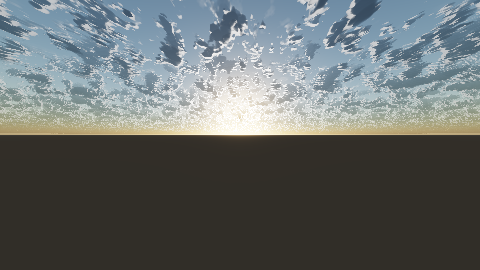
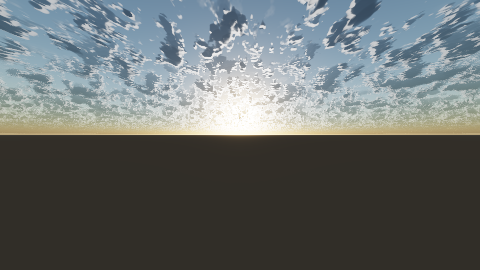
Proof stills supersample the cloud march (adaptive SSAA); dot hunt traces speckle to un-lodded base-fbm octaves
Single-ray stills alias sub-pixel sunlit wisps into white dots production melts by
temporal accumulation (256-frame bake), so the kernel proof now averages sub-rays
(2x2 base, adaptively filled to 4x4 where the base set spreads past 0.35). Only the
cloud march supersamples; the background stays single-ray, sub-rays share the
centre ray's ground distance (exact: downward rays miss the above-eye slab), and
SCAN still prints aliased sub-ray 0 for hunts. Row-64 +2h steps>80 fall 15 -> 5.

The hunt also ruled IN the remaining floor: the twin's tap-3 flip is a red herring
(both sides land multi-scatter-dark), and the dots that survive 16 sub-pixel rays
are sub-STEP lottery, not sub-pixel aliasing — the base fbm marches its 18-37 m
octaves at full weight under Lod 1.0 (142 m steps), which no ray count can resolve.
P2.4e's along-sun shadow prefilter is reverted (proven useless against transverse
flips, doubled shadow cost). Next: P2.4f fades the fine base octaves with
DensityLod in all three density paths (= the infinite-ray mean, exact).

diff --git a/Scratchpad/SkyCloudKernelProof.cpp b/Scratchpad/SkyCloudKernelProof.cpp
@@ -721,6 +721,8 @@ int main()
     //    per-pixel frame is the lab's (atmosphere + aureole + ground + colour); only the cloud march swaps.
     static unsigned char TwinRgb[(size_t)kW*kH*3u], RasterRgb[(size_t)kW*kH*3u];
     int Iso = 0; // Isolation switch for the SKY_ISO frames below: 1 = atmosphere only, 2 = flat cloud ambient.
+    // Scan dump for grain hunts (SKY_SCAN=<row>): raw pre-cloud/transmittance/post floats along one row.
+    int ScanRow = std::getenv("SKY_SCAN") ? std::atoi(std::getenv("SKY_SCAN")) : -1;
     auto Render = [&](const SkyConstantRecord& K, unsigned char* Rgb, bool Twin) {
         // The raster branch reads the PACKED wall clock, like everything else it shares with the twin.
         float CloudTime = K.CloudClock[2];
@@ -764,24 +766,94 @@ int main()
                     }
                 }
             }
-            if (Twin)
+            float PreCloud[3] = { Out[0], Out[1], Out[2] };
+            // SSAA: production converges sub-pixel sunlit wisps by temporal accumulation (256-frame bake);
+            //    one ray per pixel aliases grazing wisps into white dots the accumulation melts on the GPU,
+            //    so the still proof averages sub-rays instead (2x2 base, adaptively filled to 4x4 where the
+            //    base set spreads — the wisp's weight drops to one ray in sixteen). The background stays
+            //    single-ray (it is smooth); only the cloud march supersamples. Sub-rays share the centre
+            //    ray's ground distance: downward rays miss the above-eye slab exactly, so the shortcut is
+            //    exact here. SCAN prints sub-ray 0 (the aliased ray) so hunts still see the raw march.
+            auto ShootSub = [&](float Offx, float Offy, float SubOut[3], bool Scan) {
+                const float SSx = (2.0f * ((Px + 0.5f + Offx) / (float)kW) - 1.0f) * TanHalf * Aspect;
+                const float SSy = (1.0f - 2.0f * ((Py + 0.5f + Offy) / (float)kH)) * TanHalf;
+                float SDir[3] = { F[0] + R[0]*SSx + U[0]*SSy, F[1] + R[1]*SSx + U[1]*SSy, F[2] + R[2]*SSx + U[2]*SSy };
+                const float SDl = std::sqrt(SDir[0]*SDir[0] + SDir[1]*SDir[1] + SDir[2]*SDir[2]);
+                SDir[0] /= SDl; SDir[1] /= SDl; SDir[2] /= SDl;
+                const float SubMax = S.HitGround ? CloudMaxDist : 1e30f;
+                SubOut[0] = PreCloud[0]; SubOut[1] = PreCloud[1]; SubOut[2] = PreCloud[2];
+                if (Twin)
+                {
+                    // The twin reads the record exactly as the kernel does — packed sun, packed clock, packed
+                    //    budgets — so the pack itself is under test alongside the transcription.
+                    float SunRad[3] = { K.SunRadiance[0]*DayF, K.SunRadiance[1]*DayF, K.SunRadiance[2]*DayF };
+                    float Maximum = SubMax > kTwinMaxDistance ? kTwinMaxDistance : SubMax;
+                    float Scatter[3] = { 0.0f, 0.0f, 0.0f }; float T = 1.0f;
+                    float Flat[3] = { 0.7f, 0.8f, 1.0f };
+                    if (Iso != 1)
+                        TwinCloudAlong(K, Eye, SDir, Maximum, K.SunDirection, SunRad, Iso == 2 ? Flat : SubOut, Scatter, T);
+                    for (int C = 0; C < 3; ++C) SubOut[C] = SubOut[C]*T + Scatter[C];
+                    if (Scan && ScanRow >= 0 && Py == (uint32_t)ScanRow)
+                    {
+                        float ScanNear = 0.0f, ScanFar = 0.0f;
+                        uint32_t ScanCount = 0u; float ScanStep = 0.0f;
+                        if (TwinSlabInterval(K, Eye, SDir, Maximum, ScanNear, ScanFar))
+                        {
+                            float ScanSpan = ScanFar - ScanNear;
+                            uint32_t ScanBudget = K.CloudControl[0] ? K.CloudControl[0] : 1u;
+                            ScanCount = (uint32_t)std::fmax(std::ceil(ScanSpan / (4000.0f / float(ScanBudget))), 1.0f);
+                            uint32_t ScanCap = ScanBudget * 4u > 4u ? ScanBudget * 4u : 4u;
+                            if (ScanCount > ScanCap) ScanCount = ScanCap;
+                            ScanStep = ScanSpan / float(ScanCount);
+                        }
+                        std::printf("SCAN %3u pre=%.4f,%.4f,%.4f T=%.4f out=%.4f,%.4f,%.4f n=%.0f cnt=%u st=%.0f\n",
+                                    Px, PreCloud[0], PreCloud[1], PreCloud[2], T, SubOut[0], SubOut[1], SubOut[2],
+                                    ScanNear, ScanCount, ScanStep);
+                    }
+                }
+                else
+                {
+                    const VolumetricSample V = VolumetricMedia::March(Cloud, Sky.LocalCloud, Sky.LocalFog, Wind, VB,
+                        Eye, SDir, SubMax, Light.Direction, CloudSunRad, SubOut, CloudTime);
+                    for (int C = 0; C < 3; ++C) SubOut[C] = SubOut[C] * V.Transmittance + V.Scatter[C];
+                    if (Scan && ScanRow >= 0 && Py == (uint32_t)ScanRow)
+                        std::printf("SCANR %3u pre=%.4f,%.4f,%.4f T=%.4f out=%.4f,%.4f,%.4f\n",
+                                    Px, PreCloud[0], PreCloud[1], PreCloud[2],
+                                    V.Transmittance, SubOut[0], SubOut[1], SubOut[2]);
+                }
+            };
+            float Acc[3] = { 0.0f, 0.0f, 0.0f };
+            float SpreadLo[3] = { 1e30f, 1e30f, 1e30f }, SpreadHi[3] = { -1e30f, -1e30f, -1e30f };
+            const float Base[4][2] = { {-0.25f,-0.25f}, {0.25f,-0.25f}, {-0.25f,0.25f}, {0.25f,0.25f} };
+            for (uint32_t Sub = 0; Sub < 4u; ++Sub)
             {
-                // The twin reads the record exactly as the kernel does — packed sun, packed clock, packed
-                //    budgets — so the pack itself is under test alongside the transcription.
-                float SunRad[3] = { K.SunRadiance[0]*DayF, K.SunRadiance[1]*DayF, K.SunRadiance[2]*DayF };
-                float Maximum = CloudMaxDist > kTwinMaxDistance ? kTwinMaxDistance : CloudMaxDist;
-                float Scatter[3] = { 0.0f, 0.0f, 0.0f }; float T = 1.0f;
-                float Flat[3] = { 0.7f, 0.8f, 1.0f };
-                if (Iso != 1)
-                    TwinCloudAlong(K, Eye, Dir, Maximum, K.SunDirection, SunRad, Iso == 2 ? Flat : Out, Scatter, T);
-                for (int C = 0; C < 3; ++C) Out[C] = Out[C]*T + Scatter[C];
+                float SubOut[3];
+                ShootSub(Base[Sub][0], Base[Sub][1], SubOut, Sub == 0u);
+                for (int C = 0; C < 3; ++C)
+                {
+                    Acc[C] += SubOut[C];
+                    if (SubOut[C] < SpreadLo[C]) SpreadLo[C] = SubOut[C];
+                    if (SubOut[C] > SpreadHi[C]) SpreadHi[C] = SubOut[C];
+                }
             }
-            else
+            float Spread = 0.0f;
+            for (int C = 0; C < 3; ++C)
+                if (SpreadHi[C] - SpreadLo[C] > Spread) Spread = SpreadHi[C] - SpreadLo[C];
+            uint32_t Rays = 4u;
+            if (Spread > 0.35f)
             {
-                const VolumetricSample V = VolumetricMedia::March(Cloud, Sky.LocalCloud, Sky.LocalFog, Wind, VB,
-                    Eye, Dir, CloudMaxDist, Light.Direction, CloudSunRad, Out, CloudTime);
-                for (int C = 0; C < 3; ++C) Out[C] = Out[C] * V.Transmittance + V.Scatter[C];
+                // A spread sub-ray set means a grazing wisp splits the pixel: fill the 4x4 grid (the 12
+                //    cells interleaving the base 2x2) so the wisp's weight drops to one ray in sixteen.
+                const float Fine[4] = { -0.375f, -0.125f, 0.125f, 0.375f };
+                for (uint32_t Fy = 0; Fy < 4u; ++Fy) for (uint32_t Fx = 0; Fx < 4u; ++Fx)
+                {
+                    float SubOut[3];
+                    ShootSub(Fine[Fx], Fine[Fy], SubOut, false);
+                    for (int C = 0; C < 3; ++C) Acc[C] += SubOut[C];
+                    ++Rays;
+                }
             }
+            for (int C = 0; C < 3; ++C) Out[C] = Acc[C] / float(Rays);
             unsigned char Enc[3];
             ColourPipeline::ApplyToByte(Colour, Out, Enc);
             Rgb[((size_t)Py * kW + Px) * 3u + 0u] = Enc[0];
@@ -825,6 +897,7 @@ int main()
         SkyConstantRecord Late = Sky.PackSkyRecord();
         Render(Late, TwinRgb, true);
         PngWriteShim::WritePng("Diagnostics/SkyCloudKernel_Plus2h.png", kW, kH, 3, TwinRgb, (int)kW * 3);
+        if (ScanRow >= 0) Render(Late, RasterRgb, false); // +2h raster for twin-vs-raster parity scans (SKY_SCAN only).
         float LateDy = 0.0f, LateDx = 0.0f;
         StreakGauge(TwinRgb, kW, kH, LateDy, LateDx);
         double Sum = 0.0, Moved = 0.0; long N = 0;
